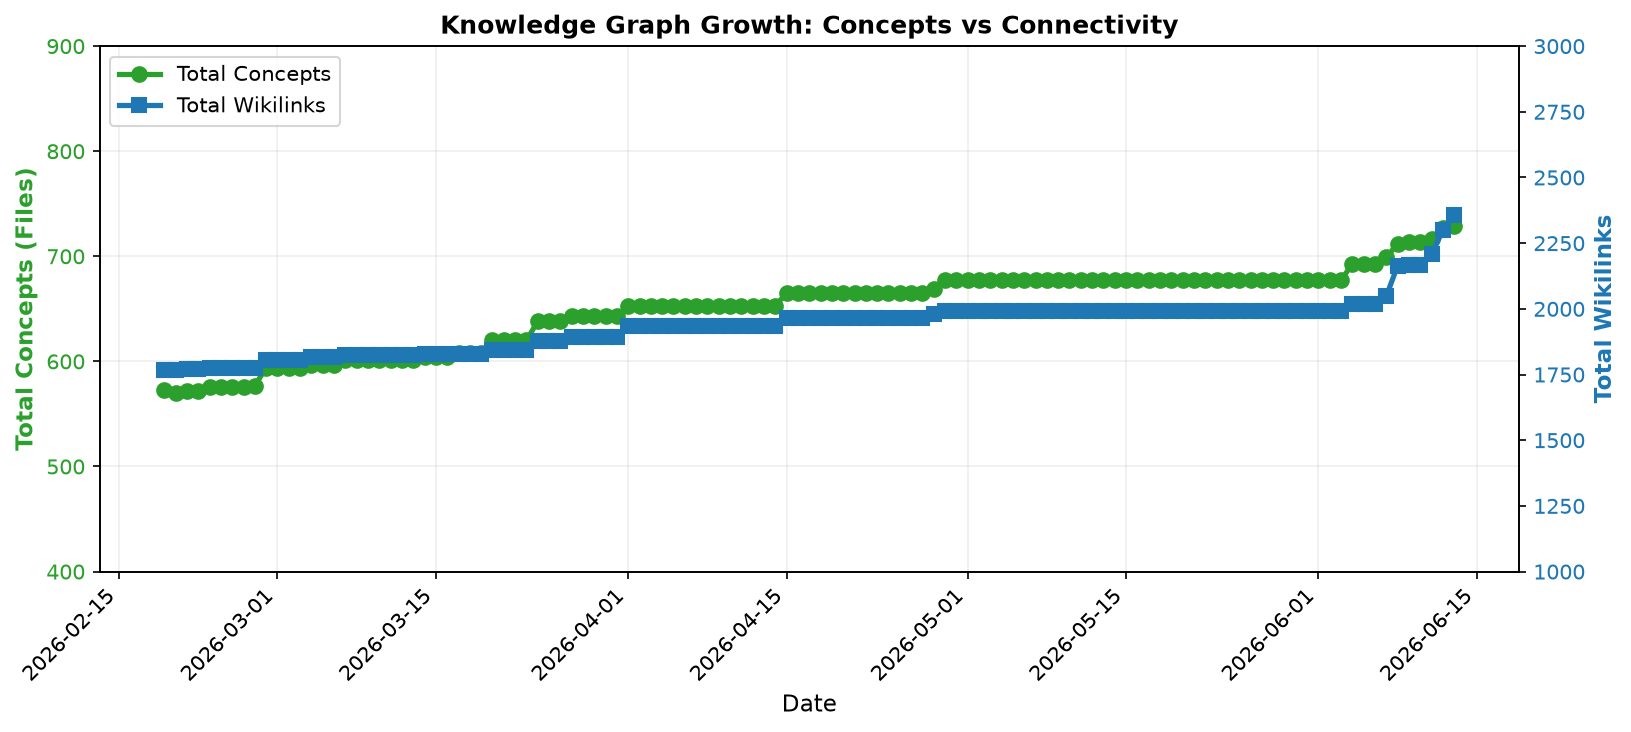
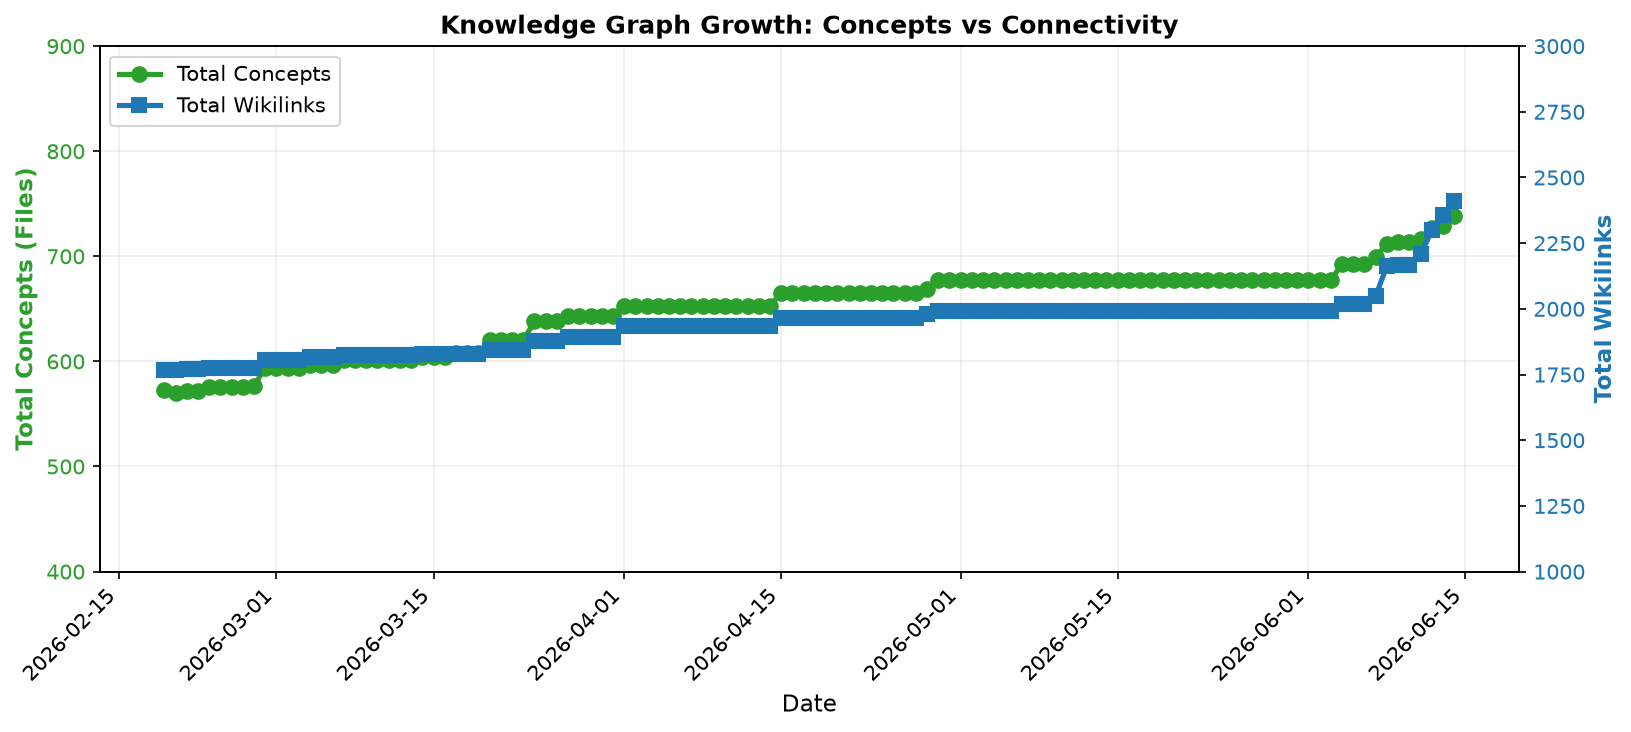
Update knowledge graph stats [skip ci]

diff --git a/README.md b/README.md
@@ -4,7 +4,7 @@
 
 ![Knowledge Glossary Growth](stats/chart.png)
 
-A personal knowledge graph containing **729 interconnected concepts** in data science, machine learning, and AI. Built as an [Obsidian](https://obsidian.md/) vault with typed relationships, this graph can serve as the foundation for a **data ontology**.
+A personal knowledge graph containing **738 interconnected concepts** in data science, machine learning, and AI. Built as an [Obsidian](https://obsidian.md/) vault with typed relationships, this graph can serve as the foundation for a **data ontology**.
 
 ## Structure
 